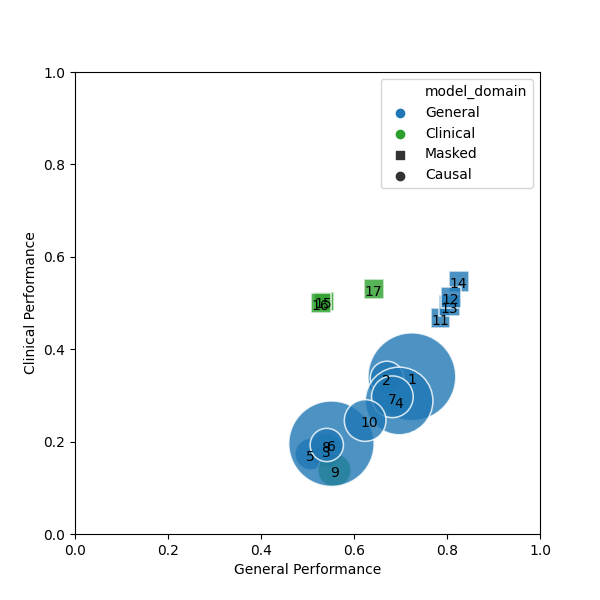
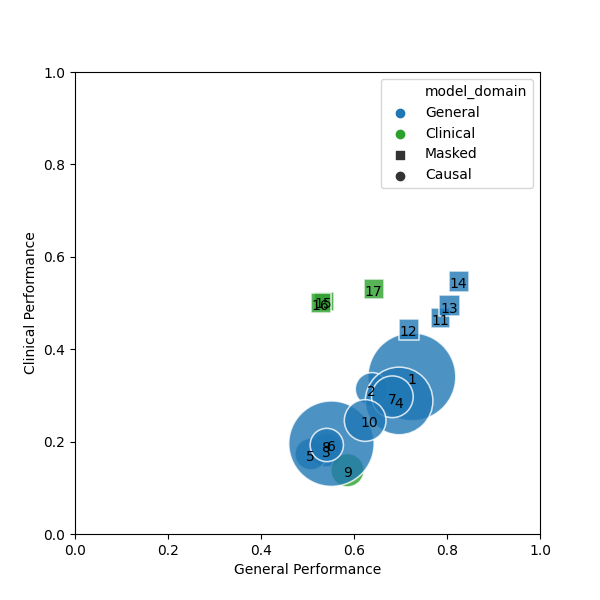
res

diff --git a/tabs_and_plots/sampling.tex b/tabs_and_plots/sampling.tex
@@ -7,8 +7,8 @@
  & \textit{p=1} & \textit{p=2} & \textit{p=3} & \textit{p=1} & \textit{p=2} & \textit{p=3} \\
 \midrule
 \midrule
-Mistral-7B & 0.645 & 0.626 & 0.714 & 0.291 & 0.178 & - \\
-XLM-RoBERTa-large & 0.826 & 0.814 & - & 0.462 & 0.478 & - \\
+Mistral-7B & 0.645 & 0.626 & 0.714 & 0.291 & 0.178 & 0.215 \\
+XLM-RoBERTa-large & 0.826 & 0.814 & 0.786 & 0.462 & 0.478 & 0.526 \\
 \midrule
 \midrule
 \multicolumn{5}{c}{\textit{50 annotated instances}} \\
@@ -16,8 +16,8 @@ XLM-RoBERTa-large & 0.826 & 0.814 & - & 0.462 & 0.478 & - \\
  & \textit{p=1} & \textit{p=2} & \textit{p=3} & \textit{p=1} & \textit{p=2} & \textit{p=3} \\
 \midrule
 \midrule
-Mistral-7B & 0.615 & - & - & - & - & - \\
-XLM-RoBERTa-large & - & - & - & - & - & - \\
+Mistral-7B & 0.615 & 0.648 & 0.637 & - & - & - \\
+XLM-RoBERTa-large & 0.697 & 0.77 & 0.714 & 0.431 & 0.476 & 0.35 \\
 \midrule
 \midrule
 \multicolumn{5}{c}{\textit{25 annotated instances}} \\
@@ -25,7 +25,7 @@ XLM-RoBERTa-large & - & - & - & - & - & - \\
  & \textit{p=1} & \textit{p=2} & \textit{p=3} & \textit{p=1} & \textit{p=2} & \textit{p=3} \\
 \midrule
 \midrule
-Mistral-7B & - & - & - & - & - & - \\
-XLM-RoBERTa-large & - & - & - & - & - & - \\
+Mistral-7B & 0.509 & 0.599 & - & - & - & - \\
+XLM-RoBERTa-large & 0.487 & 0.588 & - & 0.393 & 0.361 & 0.283 \\
 \bottomrule
 \end{tabular}}

diff --git a/tabs_and_plots/results_table.tex b/tabs_and_plots/results_table.tex
@@ -14,7 +14,7 @@
  & 6 & OPT-66B & 0.608 & 0.495 & - & 0.157 & 0.234 & 0.624 & 0.406 & - & 0.206 & 0.283 & - & - & - & 0.204 \\
  & 7 & Vicuna-13B & 0.657 & 0.708 & 0.355 & 0.236 & 0.3 & 0.677 & 0.35 & 0.399 & - & 0.326 & 0.744 & 0.25 & 0.04 & 0.213 \\
  & 8 & Vicuna-7B & 0.594 & 0.489 & 0.259 & 0.147 & 0.172 & 0.591 & 0.277 & 0.439 & 0.152 & 0.296 & 0.659 & 0.569 & 0.042 & 0.151 \\
- & 9 & Medalpaca-7B & - & 0.558 & - & 0.138 & - & - & - & - & 0.161 & 0.224 & - & - & - & - \\
+ & 9 & Medalpaca-7B & - & 0.586 & - & 0.138 & - & - & - & - & 0.161 & 0.224 & - & - & - & - \\
  & 10 & Vigogne-13B & 0.593 & 0.655 & 0.252 & 0.176 & 0.309 & 0.515 & 0.25 & 0.464 & 0.099 & 0.142 & 0.58 & 0.561 & 0.01 & 0.198 \\
 \midrule
 \multirow{16}{*}{\rotatebox[origin=c]{90}{Masked}} & 11 & mBERT & 0.768 & 0.804 & 0.624 & 0.378 & 0.401 & 0.801 & 0.728 & 0.741 & 0.588 & 0.428 & 0.812 & 0.76 & 0.324 & 0.432 \\
